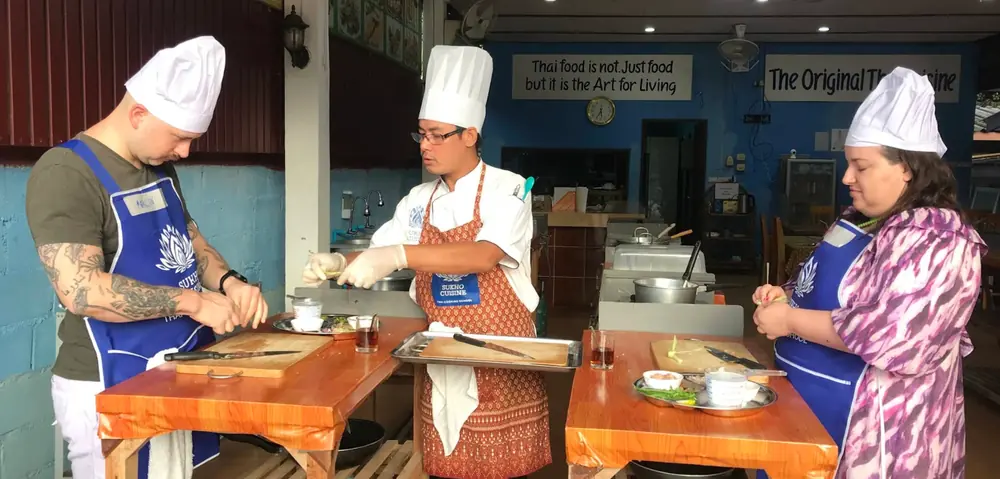
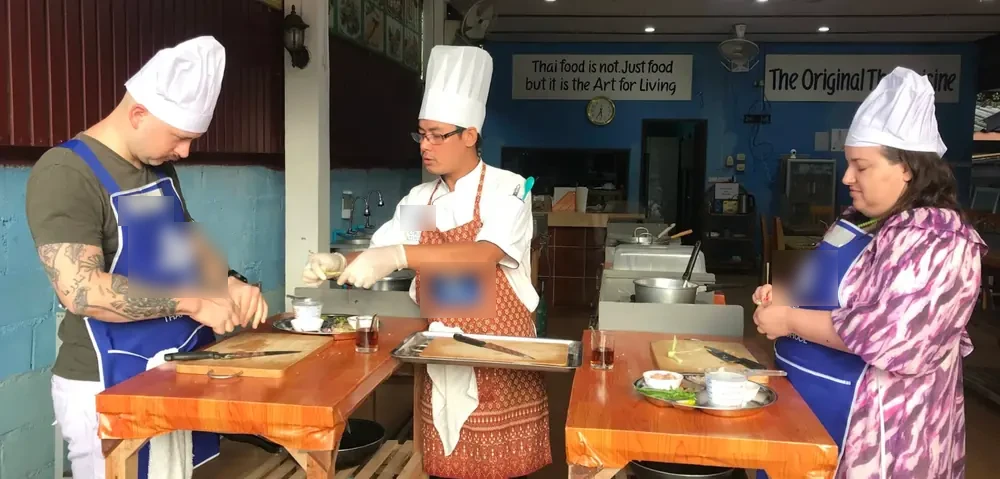
Plongée détaillée par niveaux, noms de prestataires retirés, date marquée obligatoire
- nouvelle page /tours/scuba-diving/ (journée Basic Diver et cours jusqu'à Advanced, rescue, spécialités)
- plus aucun nom de prestataire dans les textes ni sur la photo du cours de cuisine
- radios de date en required sur l'accueil et /taxi/
- test qui interdit les noms de prestataires dans _site

diff --git a/tests/partenaires.test.js b/tests/partenaires.test.js
@@ -1,0 +1,57 @@
+// Aucun nom de prestataire sur le site (sinon les clients réservent en direct sans passer par Secret),
+// la plongée détaille ses niveaux et la date est obligatoire dans les deux formulaires.
+// Lancer `npm run build` avant (lecture de _site/).
+const test = require("node:test");
+const assert = require("node:assert/strict");
+const fs = require("node:fs");
+const path = require("node:path");
+
+const site = path.join(__dirname, "..", "_site");
+
+function htmlFiles(dir) {
+  return fs.readdirSync(dir, { withFileTypes: true }).flatMap((e) => {
+    const full = path.join(dir, e.name);
+    if (e.isDirectory()) return htmlFiles(full);
+    return /\.(html|xml|txt)$/.test(e.name) ? [full] : [];
+  });
+}
+
+// VIP Taxi Lanta est la marque de transferts assumée sur le site, elle n'est donc pas dans cette liste.
+const PARTENAIRES = /rattana|lacha ?ru|sukho|lanta ?atv|atv adventure|lanta elephant|lanta longtail|lanta batik|lanta kayaking|e-?gokart|noom|bundhaya|satun|pakbara|blue ?planet/i;
+
+test("aucun nom de prestataire dans les pages générées", () => {
+  const files = htmlFiles(site);
+  assert.ok(files.length > 20);
+  for (const file of files) {
+    const text = fs.readFileSync(file, "utf8");
+    assert.doesNotMatch(text, PARTENAIRES, path.relative(site, file));
+  }
+});
+
+test("aucun nom de prestataire dans les noms de fichiers d'images", () => {
+  const images = fs.readdirSync(path.join(site, "images", "secret")).concat(fs.readdirSync(path.join(site, "images", "taxi")));
+  for (const name of images) assert.doesNotMatch(name, PARTENAIRES, name);
+});
+
+test("plongée : une page avec les niveaux, de l'essai d'un jour aux cours avancés", () => {
+  const doc = fs.readFileSync(path.join(site, "tours", "scuba-diving", "index.html"), "utf8");
+  for (const level of ["Kids Scuba Explorer", "Basic Diver", "Open Water Diver", "Advanced Open Water Diver", "React Right", "Stress and Rescue Diver", "Deep Diver", "Nitrox"]) {
+    assert.ok(doc.includes(level), level);
+  }
+  assert.match(doc, /Koh Haa or Koh Bida/);
+  assert.match(doc, /medically fit/);
+  assert.doesNotMatch(doc, /฿|CHF|€|per person\s*:?\s*\d/);
+  const home = fs.readFileSync(path.join(site, "index.html"), "utf8");
+  assert.match(home, /href="\/tours\/scuba-diving\/"/);
+});
+
+test("formulaires : la date est obligatoire (radios required) sur l'accueil et sur /taxi/", () => {
+  const home = fs.readFileSync(path.join(site, "index.html"), "utf8");
+  const taxi = fs.readFileSync(path.join(site, "taxi", "index.html"), "utf8");
+  const radios = (doc, name) => doc.match(new RegExp(`<input type="radio" name="${name}"[^>]*>`, "g")) || [];
+  for (const [doc, name] of [[home, "dateChoice"], [taxi, "date_choice"]]) {
+    const found = radios(doc, name);
+    assert.equal(found.length, 3, name);
+    for (const tag of found) assert.match(tag, /\brequired\b/, tag);
+  }
+});
